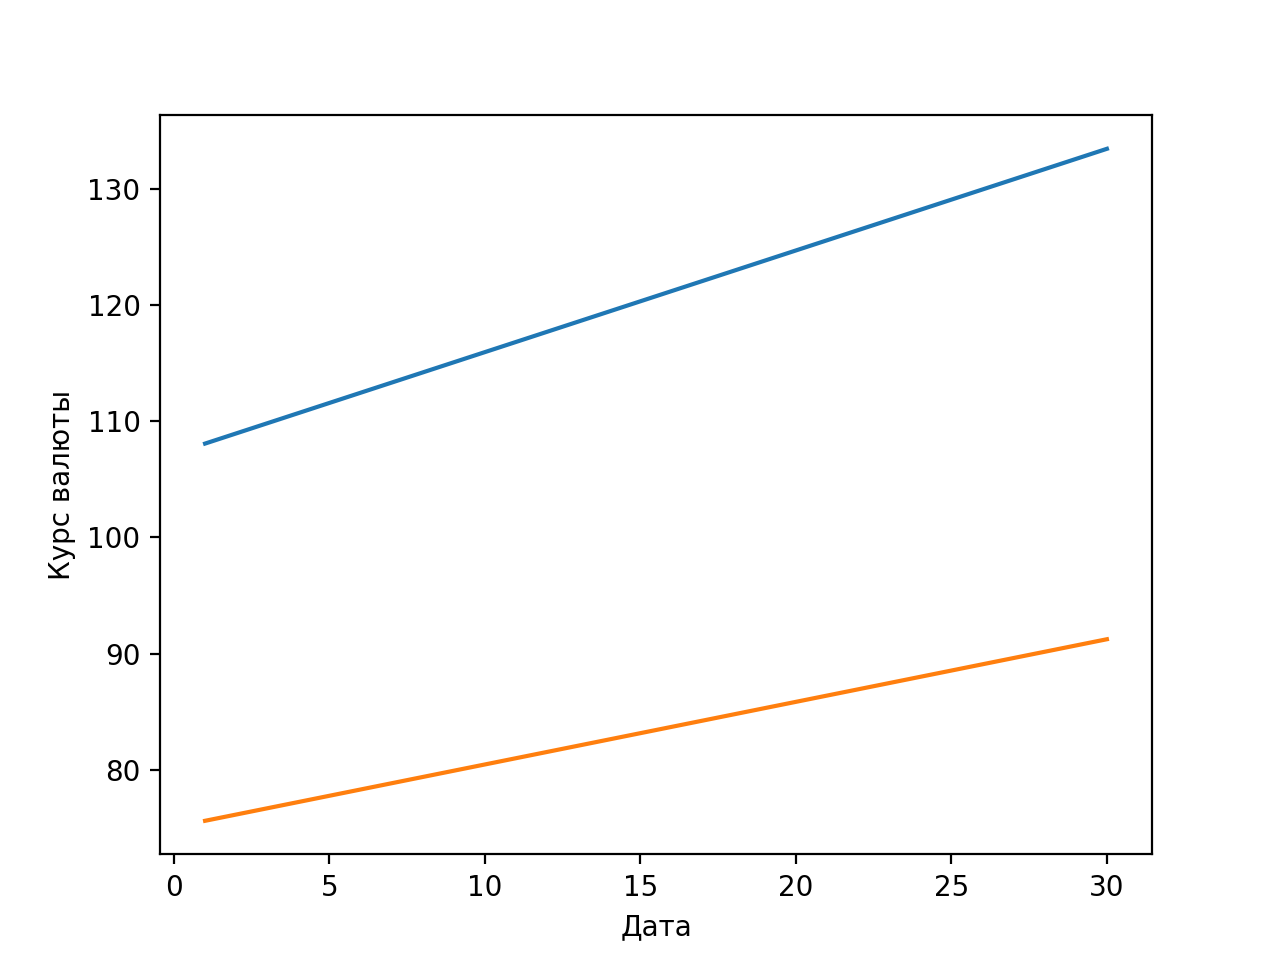
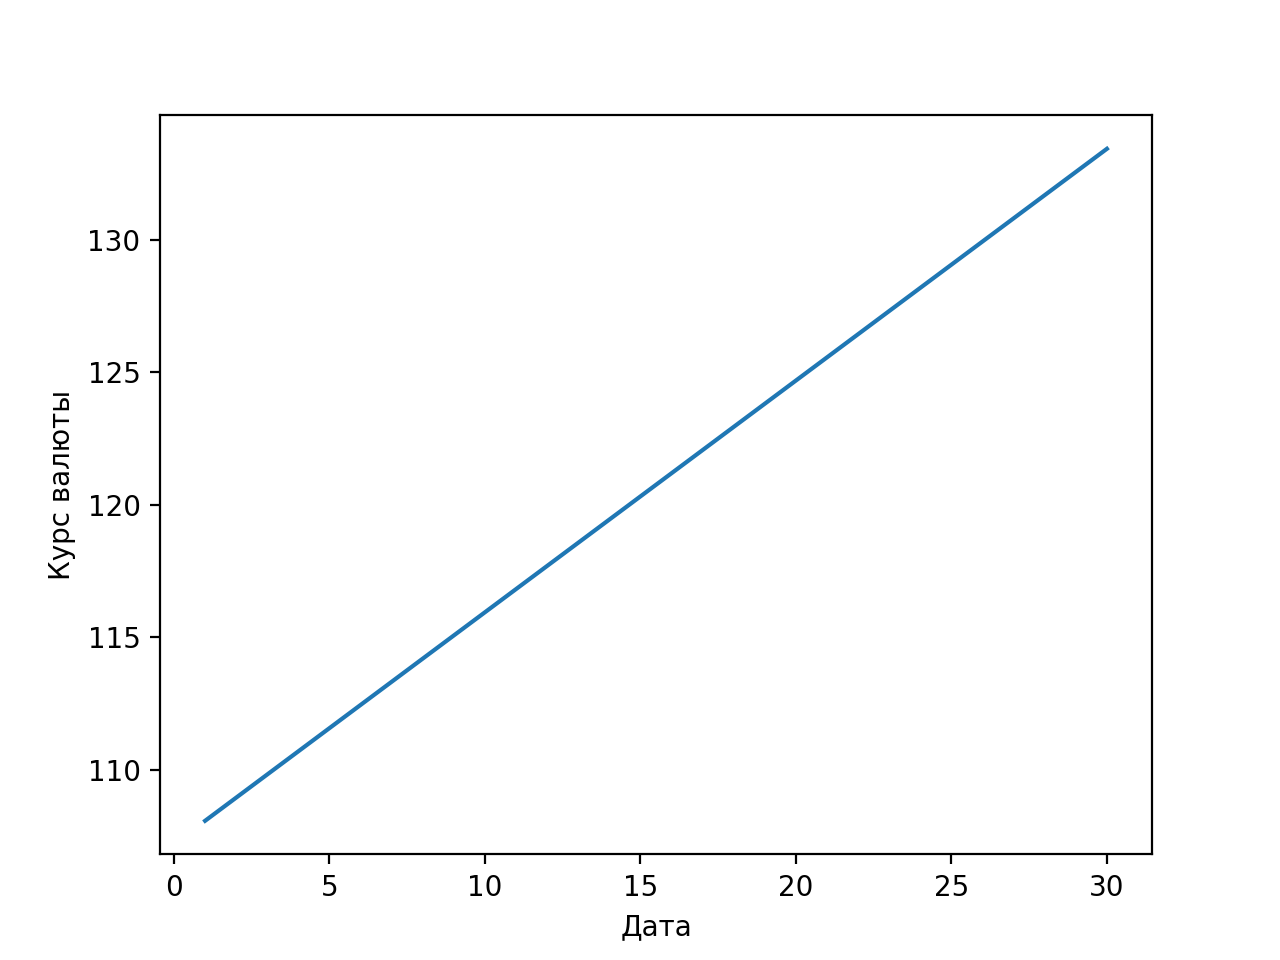
Представление графика реализовано через getResourcesAsStream

diff --git a/src/main/java/ru/liga/view/TelegramViewImpl.java b/src/main/java/ru/liga/view/TelegramViewImpl.java
@@ -4,22 +4,26 @@ import com.github.sh0nk.matplotlib4j.NumpyUtils;
 import com.github.sh0nk.matplotlib4j.Plot;
 import com.github.sh0nk.matplotlib4j.PythonExecutionException;
 import lombok.AllArgsConstructor;
+import lombok.extern.slf4j.Slf4j;
 import org.telegram.telegrambots.meta.api.methods.send.SendMessage;
 import org.telegram.telegrambots.meta.api.methods.send.SendPhoto;
 import org.telegram.telegrambots.meta.api.objects.InputFile;
 import org.telegram.telegrambots.meta.exceptions.TelegramApiException;
 import ru.liga.Bot;
+import ru.liga.exception.PlottingException;
 import ru.liga.model.Answer;
 import ru.liga.model.Currency;
 import ru.liga.model.Rate;
 import ru.liga.model.command.Command;
 import ru.liga.utils.DateTimeUtil;
 
-import java.io.File;
 import java.io.IOException;
 import java.util.List;
 import java.util.Map;
 
+import static ru.liga.exception.ExceptionMessage.PLOTTING_ERROR;
+
+@Slf4j
 @AllArgsConstructor
 public class TelegramViewImpl implements View {
     private final Bot bot;
@@ -40,18 +44,18 @@ public class TelegramViewImpl implements View {
         try {
             bot.execute(message);
         } catch (TelegramApiException e) {
-            //логируем сбой Telegram Bot API, используя userName !!!!!
+            log.debug("Не удалось отправить сообщение: " + e.getMessage());
         }
     }
 
-    public void sendPhoto(File file, Long chatId) {
+    public void sendPhoto(String fileName, Long chatId) {
         SendPhoto photo = new SendPhoto();
-        photo.setPhoto(new InputFile(file, "Graph"));
+        photo.setPhoto(new InputFile(TelegramViewImpl.class.getResourceAsStream(fileName), "Graph"));
         photo.setChatId(chatId.toString());
         try {
             bot.execute(photo);
         } catch (TelegramApiException e) {
-            //логируем сбой Telegram Bot API, используя userName !!!!!
+            log.debug("Не удалось отправить график: " + e.getMessage());
         }
     }
 
@@ -69,7 +73,7 @@ public class TelegramViewImpl implements View {
         return ratesString.toString();
     }
 
-    public File getGraph(Map<Currency, List<Rate>> ratesMap) {
+    public String getGraph(Map<Currency, List<Rate>> ratesMap) {
 
         int days = ratesMap.values().stream().findFirst().get().size();
 
@@ -87,9 +91,11 @@ public class TelegramViewImpl implements View {
         try {
             plt.executeSilently();
         } catch (IOException | PythonExecutionException e) {
-            e.printStackTrace();
+            log.debug(PLOTTING_ERROR + e.getMessage());
+            throw new PlottingException(PLOTTING_ERROR.getMessage());
         }
-        return new File("src/main/resources/graph.png");
+
+        return "/graph.png";
     }
 
 

diff --git a/src/main/java/ru/liga/Bot.java b/src/main/java/ru/liga/Bot.java
@@ -35,7 +35,7 @@ public class Bot extends TelegramLongPollingBot {
         try {
             TelegramBotsApi botsApi = new TelegramBotsApi(DefaultBotSession.class);
             botsApi.registerBot(this);
-            log.info("Приложение стартовало. Ожидаются сообщения");
+            log.info("Приложение запущено. Ожидаются сообщения");
         } catch (TelegramApiException e) {
             log.error("Приложению не удалось подключиться: " + e.getMessage());
         }
@@ -52,8 +52,10 @@ public class Bot extends TelegramLongPollingBot {
             Answer answer = controller.operate();
             view.printMessage(answer, chatId, command);
         } catch (BaseException e) {
+            log.debug("ERROR: " + e.getMessage());
             view.sendText(e.getMessage(), chatId);
         } catch (Exception ex) {
+            log.debug("ERROR: " + ex.getMessage());
             view.sendText(INTERNAL_ERROR.getMessage(), chatId);
         }
     }
@@ -64,7 +66,7 @@ public class Bot extends TelegramLongPollingBot {
         try {
             prop.load(App.class.getClassLoader().getResourceAsStream("config.properties"));
         } catch (IOException ex) {
-            log.error("Ошибка получения имени бота " + ex.getMessage());
+            log.debug("Ошибка получения имени бота " + ex.getMessage());
         }
         return prop.getProperty("userName");
     }
@@ -74,7 +76,7 @@ public class Bot extends TelegramLongPollingBot {
         try {
             prop.load(App.class.getClassLoader().getResourceAsStream("config.properties"));
         } catch (IOException ex) {
-            log.error("Ошибка получения имени бота " + ex.getMessage());
+            log.debug("Ошибка получения имени бота " + ex.getMessage());
         }
         return prop.getProperty("token");
     }

diff --git a/src/main/java/ru/liga/repository/InMemoryRatesRepositoryImpl.java b/src/main/java/ru/liga/repository/InMemoryRatesRepositoryImpl.java
@@ -1,5 +1,6 @@
 package ru.liga.repository;
 
+import lombok.extern.slf4j.Slf4j;
 import ru.liga.exception.CsvParseException;
 import ru.liga.model.Currency;
 import ru.liga.model.Rate;
@@ -17,6 +18,7 @@ import static ru.liga.exception.ExceptionMessage.CSV_PARSE_ERROR;
  * Инмемори репозиторий для хранения значений курсов валют, загруженых из CSV файлов и работы с этими данными
  */
 
+@Slf4j
 public class InMemoryRatesRepositoryImpl implements RatesRepository {
 
     private static final Map<Currency, List<Rate>> repository = new HashMap<>();
@@ -32,6 +34,7 @@ public class InMemoryRatesRepositoryImpl implements RatesRepository {
         } catch (Exception e) {
             throw new CsvParseException(CSV_PARSE_ERROR.getMessage());
         }
+        log.debug("Информация из CSV файлов успешно загружена в InMemoryRatesRepository");
 
     }
 

diff --git a/src/main/java/ru/liga/exception/ExceptionMessage.java b/src/main/java/ru/liga/exception/ExceptionMessage.java
@@ -15,7 +15,8 @@ public enum ExceptionMessage {
     ILLEGAL_DATE_FROM_ACTUAL("Введена слишком поздняя дата, последняя доступная для предсказания дата - "),
     REPEAT_COMMAND_PARAMETER("Вы ввели один параметр больше одного раза. Параметр: "),
     INTERNAL_ERROR("Произошла внутренняя ошибка приложения"),
-    CSV_PARSE_ERROR("Ошибка загрузки данных из файлов CSV");
+    CSV_PARSE_ERROR("Ошибка загрузки данных из файлов CSV"),
+    PLOTTING_ERROR("При построении графика произошла ошибка");
 
 
     private final String message;

diff --git a/src/main/java/ru/liga/exception/PlottingException.java b/src/main/java/ru/liga/exception/PlottingException.java
@@ -1,0 +1,7 @@
+package ru.liga.exception;
+
+public class PlottingException extends BaseException {
+    public PlottingException(String s) {
+        super(s);
+    }
+}
